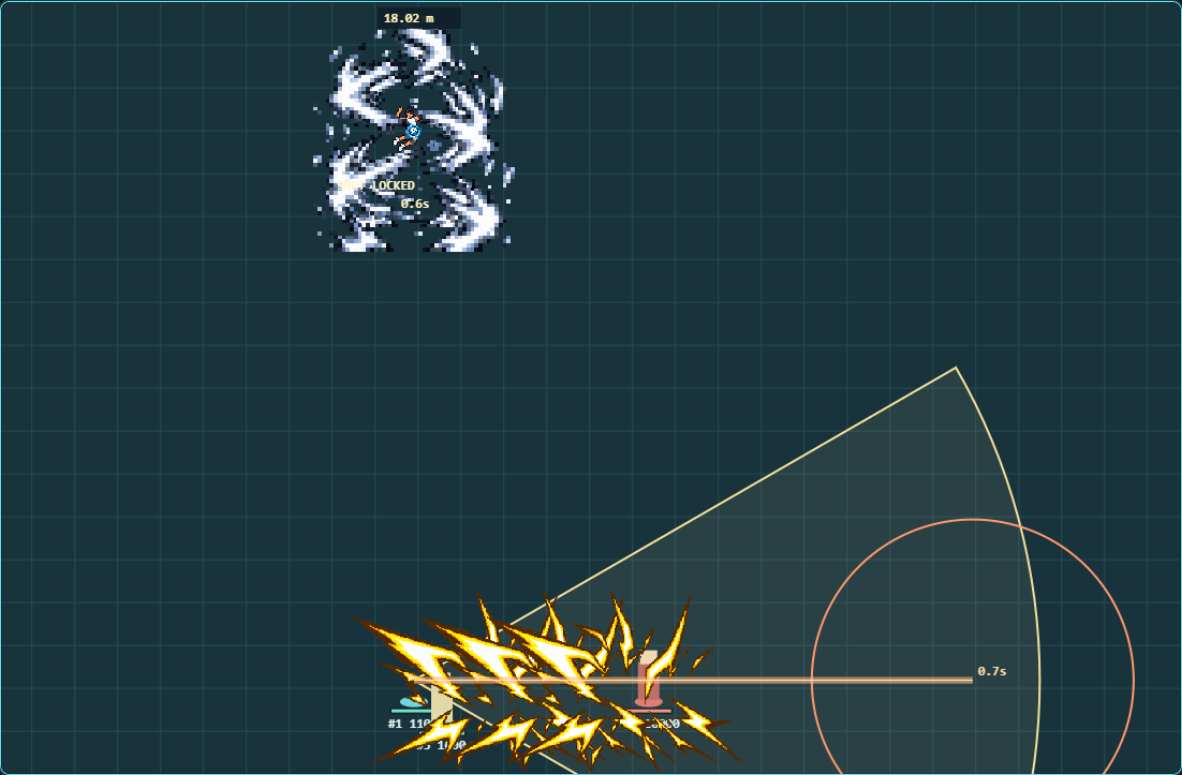
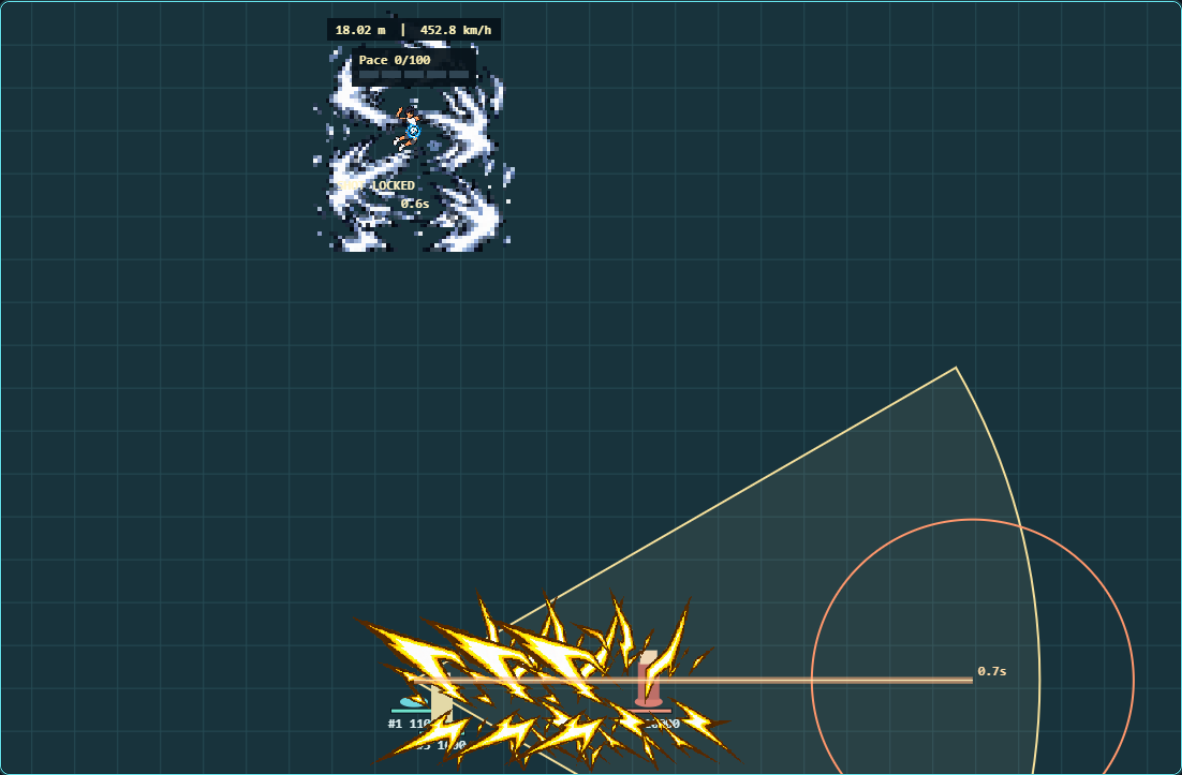
Show Rally Pace and spike speed overhead with Impossible demo

Changed region(s): [[0.2741, 0.0, 0.4264, 0.1239]]

diff --git a/editor/rally-lab.js b/editor/rally-lab.js
@@ -6,12 +6,12 @@ for(const name of ['ball','set','receive','thunder','black','impact','black_impa
 for(const name of ['ball','set','receive','thunder','black','impact','black_impact','support','body_thunder','body_black','trail_thunder','trail_black','stroke_contact','stroke_impact','stroke_black_contact','stroke_black_impact','body_white','white','trail_white','white_impact','white_blink','crater','crater_serve','serve_ring'])await Promise.all(Array.from({length:8},async(_,phase)=>{const im=new Image(),key=name+'_p'+phase;im.src='../docs/rally-art-review/effect-'+key+'.png';try{await im.decode();art[key]=im}catch{}}));art.helper=art.yellow_masked_set;
 const fields=['Ego','Judgement','Positioning','Control Speed','Skill Accuracy','Skill Dodge','Aggressive','Order','Roaming','Macro','Micro','Map Awareness','Strategy'];fields.forEach((name,i)=>{const l=document.createElement('label');l.className='stat';l.innerHTML=`<span>${name}</span><output>50</output><input type="range" min="0" max="100" value="50" data-stat="${i}">`;l.querySelector('input').oninput=e=>l.querySelector('output').textContent=e.target.value;$('#profiles').append(l)});
 let session,tick=0,running=false,state={},units=[],held=new Set(),queue=[],aim={x:280000,y:300000},target=2,feedback={},serial=0,history=[],outputs=[],eventLines=[],warnings=new Map(),visuals=[],camera={x:100000,y:220000},last=0,accum=0,loaded=null,replayIndex=0,recordingSetup={};
-let lineWarnings=new Map(),demo=new Map();
+let lineWarnings=new Map(),demo=new Map(),spikeCaption=null;
 function unit(id,team,x,y){return{id,team,pos:{x,y},velocity:{x:0,y:0},hp:id===1?1102:1600,max_hp:id===1?1102:1600,attack:id===1?104:85,radius:10000,champion:true,visible:true,targetable:true,farmable:false,controlled:false,shield:0,shield_until:0,defence:id===1?26:20,buffs:{},next_attack:0,stun_until:0};}
 function reset(setup={},firstStep=true){
  if(session!==undefined)wasm.rally_drop(session);session=wasm.rally_new();tick=0;running=false;state={};
  units=[unit(1,0,150000,300000),unit(2,1,360000,300000),unit(3,0,175000,320000)];units[1].hp=units[1].max_hp=10000;
- queue=[];held.clear();feedback={};serial=0;history=[];outputs=[];warnings.clear();lineWarnings.clear();visuals=[];eventLines=[];loaded=null;replayIndex=0;recordingSetup={...setup};demo.clear();
+ queue=[];held.clear();feedback={};serial=0;history=[];outputs=[];warnings.clear();lineWarnings.clear();visuals=[];eventLines=[];loaded=null;replayIndex=0;recordingSetup={...setup};demo.clear();spikeCaption=null;
  $('#powerForm').value=setup.form||'base';$('#practicePace').value=setup.pace||0;$('#practiceBank').value=setup.bank_percent||0;
  if(Object.keys(setup).length)applyPractice(setup);$('#play').textContent='Play';if(firstStep)step();running=false;render();
 }
@@ -31,7 +31,7 @@ function move(u,p){p={x:Math.round(p.x),y:Math.round(p.y)};if(legal(p,u.radius))
 function emit(s){eventLines.push(`${(tick/60).toFixed(2)}s ${s}`);if(eventLines.length>60)eventLines.shift();}
 function maxBuff(u,field,channel){return Math.max(0,...Object.values(u.buffs).filter(b=>!channel||b.channel===channel).map(b=>b[field]||0));}
 function hit(u,raw,basic=false){const reduction=maxBuff(u,'reduce'),afterArmour=Math.floor(raw*100/(100+u.defence)),damage=Math.floor(afterArmour*(100-reduction)/100),absorbed=Math.min(u.shield,damage);u.shield-=absorbed;const hpLoss=Math.min(u.hp,damage-absorbed);u.hp-=hpLoss;if(u.id===1)feedback.receipts=[...(feedback.receipts||[]),{serial:++serial,source:2,delivered:hpLoss+absorbed,reduction,incoming_force:afterArmour,champion:true,verified:true,reflected:false}];emit(`${basic?'Basic':'Spike'}: ${raw} raw → ${hpLoss} HP + ${absorbed} shield`);return hpLoss+absorbed>0;}
-function apply(out){state=out.state;const delivered=new Map();for(const e of out.effects){switch(e.kind){
+function apply(out){const previousPhase=state.phase?.kind;state=out.state;rememberSpike(previousPhase);const delivered=new Map();for(const e of out.effects){switch(e.kind){
 case'reveal_sector':emit('Full-V sight request: Lab simulation only; native SDK unavailable');break;
 case'white_transform':emit('White Storm: stronger role tier replaces Black until death');break;
 case'knock_up':{const u=units.find(u=>u.id===e.target);if(u&&!u.cc_immune)u.stun_until=Math.max(u.stun_until,tick+e.ticks);break;}
@@ -78,10 +78,43 @@ function render(){ctx.setTransform(1,0,0,1,0,0);ctx.imageSmoothingEnabled=false;
  const phase=state.phase?.kind||'idle',form=(state.white_storm?'white_':state.transformed?'thunder_':'yellow_')+(state.awakened?'unmasked':'masked');if(phase==='air'||phase==='impossible'){const h=state.phase.attempted?state.last_spike_height:state.contact_height,t=tierAt(h);if(t!=='normal')drawArt(t==='white_storm'?'body_white':t==='black_thunder'?'body_black':'body_thunder',units[0].pos,state.contact_height);}for(const u of units){if(!unitVisible(u))continue;const p=screen(u.pos);ctx.fillStyle=u.team?'#d97f73':'#6ed6de';ctx.beginPath();ctx.ellipse(p.x,p.y+20,13,5,0,0,Math.PI*2);ctx.fill();if(u.id===1){let pose=(phase==='air'||phase==='impossible')?'spike':phase==='approach'?(state.serve?'set':'run'):state.receive_start!=null&&tick-state.receive_start<18?'receive':phase==='prepare'?'set':'idle';drawArt(form+'_'+pose,u.pos,state.contact_height||2000,64,aim.x<u.pos.x);}else{ctx.fillStyle=u.team?'#bd6f68':'#e3d9a7';ctx.fillRect(p.x-10,p.y-17,20,35);ctx.fillStyle='#f0d8b5';ctx.fillRect(p.x-8,p.y-28,16,13);}ctx.fillStyle='#07131b';ctx.fillRect(p.x-22,p.y+26,44,5);ctx.fillStyle=u.team?'#f09981':'#70e3cd';ctx.fillRect(p.x-21,p.y+27,42*Math.max(0,u.hp/u.max_hp),3);ctx.fillStyle='#dceff1';ctx.fillText(`#${u.id} ${u.hp}${u.shield?' +'+u.shield:''}`,p.x-24,p.y+44);if(Object.values(u.buffs).some(b=>b.channel==='support_ball'))drawArt('support',{x:u.pos.x,y:u.pos.y-9000});}
  if(state.helper){drawArt(form+'_set',state.helper[0]);}
  const ball=ballPoint();if(ball){if(state.ball.kind==='flying'&&state.ball.thunder){const p=screen(ball.p,ball.h),q=screen(state.ball.to),a=Math.atan2(q.y-p.y,q.x-p.x);ctx.save();ctx.translate(p.x,p.y);ctx.rotate(a);const trail=art[(state.ball.white?'trail_white':state.ball.black?'trail_black':'trail_thunder')+'_p'+(Math.floor(tick/2)%8)];if(trail)ctx.drawImage(trail,-trail.width+8,-trail.height/2);ctx.restore();}const name=state.ball?.kind==='flying'&&state.ball.thunder?(state.ball.white?'white':state.ball.black?'black':'thunder'):'ball';drawArt(name,ball.p,ball.h,name==='ball'?64:64);}for(const e of visuals){const map={impossible_charge:'body_white',impossible_release:'body_white',impossible_impact:'white_impact',overpressure_release:'white_blink',overpressure_impact:'white_impact',setter:'helper',toss:'set',setter_ready:'set',serve_ready:'set',serve_impact_ring:'serve_ring',white_release:'body_white',white_blink:'white_blink',black_ready:'body_black',black_release:'body_black',spike_release:'body_thunder',contact:'ball'};const name=map[e.name]||e.name,phase=Math.min(7,Math.floor((tick-e.start)/2)),pos=['impact','black_impact','white_impact'].includes(name)?{x:e.pos.x,y:e.pos.y+R.IMPACT_ANCHOR_PIXELS*R.WORLD_UNITS_PER_PIXEL}:e.pos;drawArt(art[name+'_p'+phase]?name+'_p'+phase:name,pos,e.height||2000);}
- if(phase==='air'||phase==='impossible'){const p=screen(units[0].pos,state.contact_height),y=Math.max(18,p.y-104);ctx.font='bold 12px monospace';ctx.fillStyle='#10212bf0';ctx.fillRect(p.x-32,y-12,70,18);ctx.fillStyle='#fff4bb';ctx.fillText(heightText(state.phase.attempted?state.last_spike_height:state.contact_height||2000,1)+' m',p.x-26,y+1);}
  for(const w of warnings.values()){circle(w.pos,w.radius,'#ff976c');const p=screen(w.pos);ctx.fillStyle='#ffdba7';ctx.fillText(`${Math.max(0,w.until-tick)/60|0}.${Math.floor(Math.max(0,w.until-tick)%60/6)}s`,p.x+5,p.y-5);}
  if(phase==='approach'){const p=screen(units[0].pos),age=(tick-state.phase.start)%R.GAUGE_TICKS;ctx.lineWidth=5;ctx.strokeStyle='#314855';ctx.beginPath();ctx.arc(p.x-30,p.y-5,30,Math.PI*.65,Math.PI*1.45);ctx.stroke();ctx.strokeStyle='#e9d49b';ctx.beginPath();ctx.arc(p.x-30,p.y-5,30,Math.PI*.65+Math.PI*.8*24/36,Math.PI*.65+Math.PI*.8*30/36);ctx.stroke();const a=Math.PI*.65+Math.PI*.8*Math.min(age,36)/36;ctx.fillStyle='#f6faf8';ctx.fillRect(p.x-30+Math.cos(a)*30-3,p.y-5+Math.sin(a)*30-3,6,6);}
   renderV3(phase);}
+
+function rememberSpike(previousPhase){
+ if(!state.alive){spikeCaption=null;return;}
+ const shot=state.phase?.kind==='impossible'?state.phase.shot:
+  state.ball?.kind==='flying'&&!state.ball.basic?state.ball:null;
+ if(shot)spikeCaption={height:shot.height,speed:shot.speed,until:tick+120};
+ else if(previousPhase==='impossible')spikeCaption=null;
+}
+function drawOverhead(phase){
+ if(!state.alive||units[0].hp<=0)return;
+ const at=screen(units[0].pos,state.contact_height||2000),x=at.x*zoom,y=at.y*zoom;
+ ctx.save();ctx.setTransform(1,0,0,1,0,0);ctx.font='bold 12px monospace';ctx.textBaseline='alphabetic';
+ // HUD stays at readable screen size and follows the actual airborne body.
+ const barWidth=18,gap=3,total=5*barWidth+4*gap,left=Math.round(x-total/2),top=Math.max(56,Math.round(y-56));
+ const pace=Math.max(0,Math.min(100,state.pace||0));
+ ctx.fillStyle='#07131bef';ctx.fillRect(left-7,top-21,total+14,36);
+ ctx.fillStyle='#fff0b4';ctx.fillText('Pace '+pace+'/100',left,top-6);
+ for(let i=0;i<5;i++){
+  const bx=left+i*(barWidth+gap),fill=Math.max(0,Math.min(20,pace-i*20))/20;
+  ctx.fillStyle='#304553';ctx.fillRect(bx,top,barWidth,7);
+  ctx.fillStyle='#f7d44b';ctx.fillRect(bx,top,Math.round(barWidth*fill),7);
+  if(i<(state.armed_bars||0)){ctx.strokeStyle='#fff6ce';ctx.lineWidth=1;ctx.strokeRect(bx-.5,top-.5,barWidth+1,8);}
+ }
+ const airborne=phase==='air'||phase==='impossible',fresh=spikeCaption&&tick<spikeCaption.until;
+ const newJump=phase==='air'&&!state.phase.attempted;
+ if(airborne||fresh){
+  const shot=fresh&&!newJump?spikeCaption:null,height=shot?shot.height:state.contact_height||2000;
+  const text=heightText(height,2)+' m'+(shot?'  |  '+(shot.speed*R.TICKS*3.6/R.HEIGHT_WORLD_PER_M).toFixed(1)+' km/h':'');
+  const width=Math.ceil(ctx.measureText(text).width)+16,badgeX=Math.max(4,Math.min(canvas.width-width-4,Math.round(x-width/2))),badgeY=Math.max(5,top-49);
+  ctx.fillStyle='#07131bf2';ctx.fillRect(badgeX,badgeY,width,21);ctx.fillStyle='#fff4bb';ctx.fillText(text,badgeX+8,badgeY+15);
+ }
+ ctx.restore();
+}
+
 function renderV3(phase){
  if(phase==='impossible'){const c=state.phase,age=tick-c.start,stage=c.locked?3:age>=120?2:1;
  drawArt('body_white',c.origin,c.height,192+stage*16);
@@ -89,7 +122,7 @@ function renderV3(phase){
  const p=screen(c.origin,c.height);ctx.fillStyle='#fff4c6';ctx.font='bold 12px monospace';ctx.fillText(c.locked?'SHOT LOCKED':'IMPOSSIBLE - AIM IN V',p.x-72,p.y+55);ctx.fillText(Math.max(0,(R.IMPOSSIBLE_CHARGE-age)/60).toFixed(1)+'s',p.x-12,p.y+72);
  if(!c.locked){const a=screen(c.origin),b=screen(c.aim);ctx.save();ctx.setLineDash([5,8]);ctx.strokeStyle='#8ce2ed88';ctx.beginPath();ctx.moveTo(a.x,a.y);ctx.lineTo(b.x,b.y);ctx.stroke();ctx.restore();}}
  for(const l of lineWarnings.values()){const a=screen(l.from),b=screen(l.to);ctx.strokeStyle='#ffb27c99';ctx.lineWidth=Math.max(4,2*l.radius*scale);ctx.beginPath();ctx.moveTo(a.x,a.y);ctx.lineTo(b.x,b.y);ctx.stroke();ctx.strokeStyle='#fff4bf';ctx.lineWidth=1;ctx.stroke();}
- if(phase==='air'||phase==='impossible'){const p=screen(units[0].pos,state.contact_height),y=Math.max(18,p.y-104);ctx.font='bold 12px monospace';ctx.fillStyle='#10212bf0';ctx.fillRect(p.x-34,y-13,78,20);ctx.fillStyle='#fff4bb';ctx.fillText(heightText(state.contact_height||2000,2)+' m',p.x-28,y+1);}
+ drawOverhead(phase);
  const bank=state.bank_base?Math.min(1000,Math.floor(state.caught*100/state.bank_base)):0,reserved=phase==='impossible'?state.phase.shot.caught:0;
  const rows=[['Form',state.white_storm?'White Storm':state.transformed?'Black/red':state.thunder_earned?'Yellow Thunder':'Yellow'],['Role',state.role||'spiker'],
  ['Pace',(state.pace||0)+'/100'],['Armed',state.armed_bars?state.armed_bars+' bars / '+Math.max(0,(state.armed_until-tick)/60).toFixed(1)+'s':'None'],
@@ -117,8 +150,15 @@ $('#play').onclick=()=>{running=!running;$('#play').textContent=running?'Pause':
 function preset(){reset({pace:Number($('#practicePace').value),form:$('#powerForm').value,bank_percent:Number($('#practiceBank').value)});}
 $('#powerForm').onchange=preset;$('#applyPractice').onclick=preset;
 $('#impossibleFixture').onclick=()=>{reset({pace:100,form:'white_storm',bank_percent:Number($('#practiceBank').value)});$('#burstBars').value=5;render();};
-$('#impossibleDemo').onclick=()=>{reset({pace:100,form:'white_storm',bank_percent:Number($('#practiceBank').value)});$('#burstBars').value=5;aim={x:900000,y:300000};
- demo=new Map([[2,{kind:'arm_burst',bars:5}],[3,{kind:'self_set'}],[16,{kind:'ultimate'}],[64,{kind:'takeoff'}],[88,{kind:'spike'}]]);running=true;$('#play').textContent='Pause';};
+function startImpossibleDemo(){
+ for(const id of ['auto','moving','attacking','allyAttacking','fog','walls','smoke','evade'])$('#'+id).checked=false;
+ reset({pace:100,form:'white_storm',bank_percent:Number($('#practiceBank').value)});
+ $('#burstBars').value=5;aim={x:900000,y:300000};zoom=.5;$('#zoom').value=zoom;
+ demo=new Map([[2,{kind:'arm_burst',bars:5}],[3,{kind:'self_set'}],[16,{kind:'ultimate'}],[64,{kind:'takeoff'}],[88,{kind:'spike'}]]);
+ $('#recordingInfo').textContent='Impossible demo: White + 100 Pace practice preset; simulated Receive bank '+Number($('#practiceBank').value)+'%. Set, Serve, perfect jump, five-second charge and release.';
+ running=true;$('#play').textContent='Pause';
+}
+$('#impossibleDemo').onclick=startImpossibleDemo;
 $('#receiverFixture').onclick=()=>{reset({pace:100,form:'base'});units[1].pos={x:180000,y:300000};$('#attacking').checked=true;render();};
 $('#supportFixture').onclick=()=>{reset();units[1].pos={x:220000,y:300000};$('#allyAttacking').checked=true;render();};
 $('#deathFixture').onclick=()=>{units[0].hp=units[0].hp>0?0:units[0].max_hp;step();render();};
@@ -131,5 +171,5 @@ window.addEventListener('message',e=>{if(e.origin===location.origin&&e.data?.typ
 window.rallyLab={get state(){return state;},get units(){return units;},get tick(){return tick;},get frames(){return history;},get outputs(){return outputs;},
  get warnings(){return [...warnings.values()];},get lineWarnings(){return [...lineWarnings.values()];},loadRecording,reset,execute,isVisible:unitVisible,inSector,
  step:()=>{step();render();},pause:()=>{running=false;render();},enqueue,command:enqueue,fixture:reset,render,setAim:p=>{aim={...p};}};
-function loop(now){const dt=Math.min(100,now-last);last=now;if(running){accum+=dt;while(accum>=1000/60){step();accum-=1000/60;}}else accum=0;render();requestAnimationFrame(loop)}reset();requestAnimationFrame(loop);
+function loop(now){const dt=Math.min(100,now-last);last=now;if(running){accum+=dt;while(accum>=1000/60){step();accum-=1000/60;}}else accum=0;render();requestAnimationFrame(loop)}reset();if(new URLSearchParams(location.search).get('demo')==='impossible')startImpossibleDemo();requestAnimationFrame(loop);
 })().catch(e=>{document.querySelector('#status').textContent=e.message;console.error(e)});

diff --git a/editor/rally.html b/editor/rally.html
@@ -1,1 +1,1 @@
-<!doctype html><html lang="en"><meta charset="utf-8"><meta name="viewport" content="width=device-width,initial-scale=1"><title>Rally 3.0 - Pace Lab</title><link rel="stylesheet" href="rally.css"><body><header><a href="/">TFM2 Labs</a><h1>Rally <span>Volleyball Lab</span></h1><p>Time the approach. Meet the ball. Choose the play.</p></header><main><section class="court"><div class="toolbar"><button id="play">Play</button><button id="step">Step</button><button id="reset">Reset</button><button id="save">Save recording</button><label class="button">Open recording<input id="load" type="file" accept=".json" hidden></label><label><input id="auto" type="checkbox"> Athlete AI</label><label>Starting form (restart) <select id="powerForm"><option value="base">Yellow Rally (normal)</option><option value="yellow_thunder">Yellow Thunder</option><option value="black_thunder">Black Thunder</option><option value="white_storm">White Storm</option></select></label><label>Burst spend <select id="burstBars"><option>1</option><option>2</option><option>3</option><option>4</option><option>5</option></select> bars</label><button id="armBurst">Arm Aura Burst</button><button id="cancelBurst">Cancel</button><div id="paceBars"></div></div><canvas id="arena" width="1100" height="720" tabindex="0" aria-label="Rally practice court. Focus to use keyboard controls."></canvas><div id="status" role="status">Loading shared rules…</div><div class="controls"><b>Q</b> Receive · <b>E</b> Self Set · <b>Shift E</b> teammate Set · <b>Space</b> approach/takeoff · <b>F</b> spike · <b>R / Shift R</b> Serve / arm Aura Burst · <b>1-5</b> bars · <b>Esc</b> cancel · Roles follow skills · WASD / click move and attack</div><p class="notice">Rally 3.0 / transport v2. Incoming-force receipts are simulated. Speed uses the game scale of 30,720 world units per metre. Native caught power, support Pace and final game presentation require actual-host acceptance. Artwork shown here is a proposal until approved. Serve sector sight is simulated here; native map reveal is unavailable in the supported SDK. Ball speeds and Serve/White Storm use prototype values; the new aura and crater artwork are still in review.</p><div id="techniques"></div><div class="toolbar"><label><input id="moving" type="checkbox"> Moving enemy</label><label><input id="attacking" type="checkbox"> Enemy attacks</label><label><input id="allyAttacking" type="checkbox"> Ally attacks</label><label><input id="fog" type="checkbox"> Concealed enemy</label><label><input id="sectorVision" type="checkbox" checked> Simulate Serve sight (Lab only)</label><label><input id="walls" type="checkbox"> Wall fixture</label><label><input id="smoke" type="checkbox"> Smoke fixture</label><label><input id="evade" type="checkbox" checked> Enemy dodges warnings</label></div><details><summary>Practice setup</summary><p>Apply a practice-only Pace, Receive bank and permanent-form preset. Matches still begin with empty Pace and an empty bank.</p><label>Pace <input id="practicePace" type="number" min="0" max="100" value="100"></label><label>Receive <input id="practiceBank" type="number" min="0" max="1000" value="0">%</label><button id="applyPractice">Apply setup</button><button id="impossibleFixture">Ready Impossible</button><button id="impossibleDemo">Play Impossible sequence</button><button id="receiverFixture">Receiver pressure</button><button id="supportFixture">Support partner</button><button id="deathFixture">Death / respawn</button><p>Setup buttons alter the practice session only. They never appear in matches.</p></details><pre id="recordingInfo"></pre><pre id="events" aria-label="Recent combat events"></pre></section><aside><section class="card"><h2>Current play</h2><div id="readout"></div><p id="reason"></p></section><section class="card"><h2>Athlete profile</h2><p>Changes decisions and execution, never skill strength.</p><div id="profiles"></div></section><section class="card"><h2>Selected continuation</h2><ol id="plans"></ol></section></aside></main><script src="rally-data.js?revision=rally-3.0"></script><script src="rally-lab.js?revision=rally-3.0"></script></body></html>
+<!doctype html><html lang="en"><meta charset="utf-8"><meta name="viewport" content="width=device-width,initial-scale=1"><title>Rally 3.0 - Pace Lab</title><link rel="stylesheet" href="rally.css"><body><header><a href="/">TFM2 Labs</a><h1>Rally <span>Volleyball Lab</span></h1><p>Time the approach. Meet the ball. Choose the play.</p></header><main><section class="court"><div class="toolbar"><button id="play">Play</button><button id="step">Step</button><button id="reset">Reset</button><button id="impossibleDemo">Simulate Impossible Spike</button><button id="save">Save recording</button><label class="button">Open recording<input id="load" type="file" accept=".json" hidden></label><label><input id="auto" type="checkbox"> Athlete AI</label><label>Starting form (restart) <select id="powerForm"><option value="base">Yellow Rally (normal)</option><option value="yellow_thunder">Yellow Thunder</option><option value="black_thunder">Black Thunder</option><option value="white_storm">White Storm</option></select></label><label>Burst spend <select id="burstBars"><option>1</option><option>2</option><option>3</option><option>4</option><option>5</option></select> bars</label><button id="armBurst">Arm Aura Burst</button><button id="cancelBurst">Cancel</button><div id="paceBars"></div></div><canvas id="arena" width="1100" height="720" tabindex="0" aria-label="Rally practice court. Focus to use keyboard controls."></canvas><div id="status" role="status">Loading shared rules…</div><div class="controls"><b>Q</b> Receive · <b>E</b> Self Set · <b>Shift E</b> teammate Set · <b>Space</b> approach/takeoff · <b>F</b> spike · <b>R / Shift R</b> Serve / arm Aura Burst · <b>1-5</b> bars · <b>Esc</b> cancel · Roles follow skills · WASD / click move and attack</div><p class="notice">Rally 3.0 / transport v2. Incoming-force receipts are simulated. Speed uses the game scale of 30,720 world units per metre. Native caught power, support Pace and final game presentation require actual-host acceptance. Artwork shown here is a proposal until approved. Serve sector sight is simulated here; native map reveal is unavailable in the supported SDK. Ball speeds and Serve/White Storm use prototype values; the new aura and crater artwork are still in review.</p><div id="techniques"></div><div class="toolbar"><label><input id="moving" type="checkbox"> Moving enemy</label><label><input id="attacking" type="checkbox"> Enemy attacks</label><label><input id="allyAttacking" type="checkbox"> Ally attacks</label><label><input id="fog" type="checkbox"> Concealed enemy</label><label><input id="sectorVision" type="checkbox" checked> Simulate Serve sight (Lab only)</label><label><input id="walls" type="checkbox"> Wall fixture</label><label><input id="smoke" type="checkbox"> Smoke fixture</label><label><input id="evade" type="checkbox" checked> Enemy dodges warnings</label></div><details><summary>Practice setup</summary><p>Apply a practice-only Pace, Receive bank and permanent-form preset. Matches still begin with empty Pace and an empty bank.</p><label>Pace <input id="practicePace" type="number" min="0" max="100" value="100"></label><label>Receive <input id="practiceBank" type="number" min="0" max="1000" value="0">%</label><button id="applyPractice">Apply setup</button><button id="impossibleFixture">Ready Impossible</button><button id="receiverFixture">Receiver pressure</button><button id="supportFixture">Support partner</button><button id="deathFixture">Death / respawn</button><p>Setup buttons alter the practice session only. They never appear in matches.</p></details><pre id="recordingInfo"></pre><pre id="events" aria-label="Recent combat events"></pre></section><aside><section class="card"><h2>Current play</h2><div id="readout"></div><p id="reason"></p></section><section class="card"><h2>Athlete profile</h2><p>Changes decisions and execution, never skill strength.</p><div id="profiles"></div></section><section class="card"><h2>Selected continuation</h2><ol id="plans"></ol></section></aside></main><script src="rally-data.js?revision=rally-3.0"></script><script src="rally-lab.js?revision=rally-3.0&amp;presentation=2"></script></body></html>

diff --git a/docs/rally-3.0-changes.md b/docs/rally-3.0-changes.md
@@ -71,7 +71,7 @@ Realm changes cancel pending charge/projectiles/fields without cleanup damage. N
 
 Open `/editor/rally.html?build=rally-3.0`. Q/E/Space/F/R remain Receive/Set/run-up/contact/Serve. Keys 1–5 select cost; Shift+R arms Aura Burst; Escape cancels unspent arming.
 
-The Lab shows Pace, cost, timers, bank/1000%, reserved force, Power, km/h, contact/maximum height and Impossible qualification. Practice presets can choose all permanent forms. “Play Impossible sequence” executes actual shared-core commands with a clearly declared White/Pace practice setup.
+The Lab shows Pace, cost, timers, bank/1000%, reserved force, Power, km/h, contact/maximum height and Impossible qualification. Five partially filled Pace bars also follow Rally above his airborne body. A screen-sized badge places contact height beside the committed ball speed, retaining it briefly through landing. The main toolbar has a Simulate Impossible Spike button; adding ?demo=impossible to the Lab URL starts the same clearly labelled practice sequence automatically. Practice presets can choose all permanent forms. “Play Impossible sequence” executes actual shared-core commands with a clearly declared White/Pace practice setup.
 
 All thirteen pinned attributes remain decision/execution inputs. Manual commands remain profile-independent. Planning reserves room for Burst alternatives within 64 evaluated candidates, beam width eight and three-action continuations. Charge re-aim review is bounded and uses visible opponents only. A fixture demonstrates the automatic planner choosing and reaching Impossible with real resource commitments.
 
